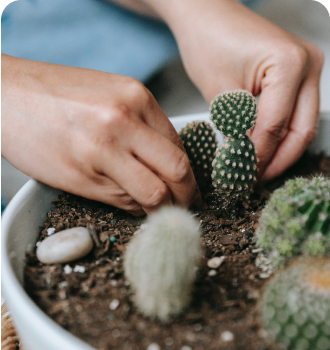
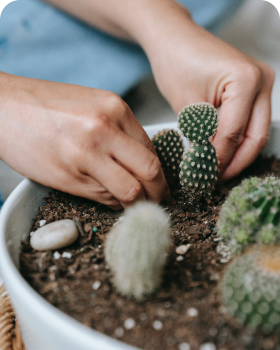
refactor:still working on  768p

diff --git a/plants/style.css b/plants/style.css
@@ -215,7 +215,7 @@ html {
     display: flex;
     flex-direction: column;
     justify-content: space-between;
-    width: 605px;
+    max-width: 605px;
     height: 350px;
     margin-top: 68px;
 
@@ -253,6 +253,8 @@ html {
     /* justify-content: center; */
     flex-direction: column;
     /*align-items: center; */
+    padding-left: 30px;
+    padding-right: 30px;
 }
 
 .service-content {
@@ -260,8 +262,8 @@ html {
     flex-wrap: wrap;
     justify-content: space-between;
     align-items: center;
-    margin-right: 324px;
-    margin-left: 109px;
+    margin-right: 294px;
+    margin-left: 79px;
     /* width: 1007px; */
     height: 94px;
 }
@@ -331,7 +333,11 @@ html {
 }
 
 .service-pic{
+    object-fit: cover;
+    min-width: 329px;
     width: 329px;
+    height: 350px;
+    border-radius: 20px 20px 0px 0px;
 }
 
 .service-title {
@@ -535,6 +541,8 @@ html {
     display: flex;
     justify-content: center;
     align-items: center;
+    padding-left: 30px;
+    padding-right: 30px;
 }
 
 .container-footer {
@@ -586,6 +594,7 @@ html {
     .header {
         min-height: 117px;
         width: 100%;
+        padding: 0;
     }
     .navbar {
         width: 668px;
@@ -608,16 +617,18 @@ html {
     }
     #welcome {
         padding: 0;
-        height: 420px;
         display: flex;
         justify-content: center;
+        align-items: flex-start;
+        min-height: 420px;
     }
     .container-welcome {
         width: 668px;
-        /* margin: 40px 50px 0px 50px; */
+        margin: 40px 50px 0px 50px;
         flex-direction: row-reverse;
+        min-height: 310px;
+        justify-content: center;
     }
-
     .title-welcome {
         height: 310px;
         width: 346px;
@@ -641,7 +652,7 @@ html {
     }
 
     #about {
-
+        padding: 0;
         display: flex;
         justify-content: center;
         align-items: flex-start;
@@ -656,9 +667,9 @@ html {
     }
     .title-about {
         margin-top: 40px;
-        display: flex;
         align-items: center;
         max-width: 668px;
+        justify-content: flex-start;
     }
 
     .h2-about {
@@ -666,12 +677,94 @@ html {
         font-size: 35px;
         line-height: 46px;
         text-align: center;
-        margin-bottom: 50px;
-
+        margin-bottom: 49px;
     }
 
     .houseplant {
         max-width: 250px;
         max-height: 258px;
+        margin-top: 40px;
+    }
+    #service {
+        padding: 0;
+        min-height: 1780px;
+    }
+    .service-content {
+        margin-top: 50px;
+        margin-left: 50px;
+        margin-right: auto;
+    }
+    .h2-service {
+        font-style: normal;
+        font-weight: 400;
+        font-size: 35px;
+        line-height: 46px;
+        margin-top: 9px;
+    }
+    .serv-btns {
+        margin-top: 43px;
+    }
+    .services {
+        max-width: 668px;
+        margin-top: 141px;
+        min-height: 1426px;
+    }
+    .service {
+        max-width: 281px;
+        max-height: 450px;
+    }
+    .service-pic {
+        max-width: 280px;
+        max-height: 350px;
+        min-width: auto;
+    }
+    .service-title {
+        margin-bottom: 8px;
+    }
+    .service-text {
+        max-width: 201px;
+        text-align: center;
+    }
+    #prices {
+        min-height: 585px;
+        height: auto;
+        padding: 0;
+        display: flex;
+        justify-content: center;
+        flex-wrap: wrap;
+    }
+    .price-type {
+
+        margin-top: 40px;
+    }
+    .h2-price {
+        font-style: normal;
+        font-weight: 700;
+        font-size: 35px;
+        line-height: 42px;
+        margin-left: 15px;    
+        margin-bottom: 57px;
+    }
+    .h3-call-us {
+        font-style: normal;
+        font-weight: 700;
+        font-size: 25px;
+        line-height: 35px;
+        margin-bottom: 28px
+    }
+    .call-us-wrap {
+        max-width: 296px;
+        margin-top: 140px;
+        margin-left: 42px;
+    }
+    .contact-btn {
+        margin-bottom: 30px;
+    }
+    #contacts {
+        display: flex;
+    }
+    .h2-contacts {
+        align-items: center;
+        flex-wrap: wrap;
     }
 }

diff --git a/index.html b/index.html
@@ -67,27 +67,27 @@
                         <p class="service-text">Lorem Ipsum has been the industry</p>
                     </div>
                     <div class="service">
-                        <img src="./plants/assets/img/second.png" alt="first-pic">
+                        <img class="service-pic" src="./plants/assets/img/second.png" alt="first-pic">
                         <h3 class="service-title">Planting</h3>
                         <p class="service-text">Lorem Ipsum has been the industry</p>
                     </div>
                     <div class="service">
-                        <img src="./plants/assets/img/third.png" alt="first-pic">
+                        <img class="service-pic" src="./plants/assets/img/third.png" alt="first-pic">
                         <h3 class="service-title">Lawn care</h3>
                         <p class="service-text">Lorem Ipsum has been the industry</p>
                     </div>
                     <div class="service">
-                        <img src="./plants/assets/img/fourth.png" alt="first-pic">
+                        <img class="service-pic" src="./plants/assets/img/fourth.png" alt="first-pic">
                         <h3 class="service-title">Planting</h3>
                         <p class="service-text">Lorem Ipsum has been the industry</p>
                     </div>
                     <div class="service">
-                        <img src="./plants/assets/img/fifth.png" alt="first-pic">
+                        <img class="service-pic" src="./plants/assets/img/fifth.png" alt="first-pic">
                         <h3 class="service-title">Garden care</h3>
                         <p class="service-text">Lorem Ipsum has been the industry</p>
                     </div>
                     <div class="service">
-                        <img src="./plants/assets/img/sixth.png" alt="first-pic">
+                        <img class="service-pic" src="./plants/assets/img/sixth.png" alt="first-pic">
                         <h3 class="service-title">Planting</h3>
                         <p class="service-text">Lorem Ipsum has been the industry</p>
                     </div>
